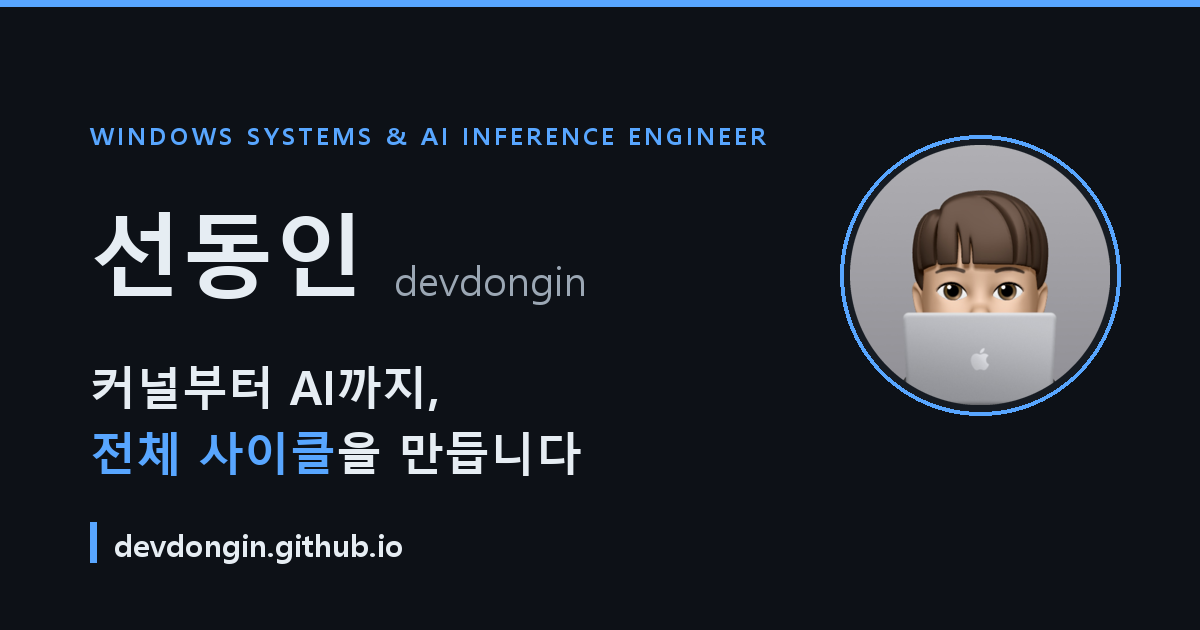
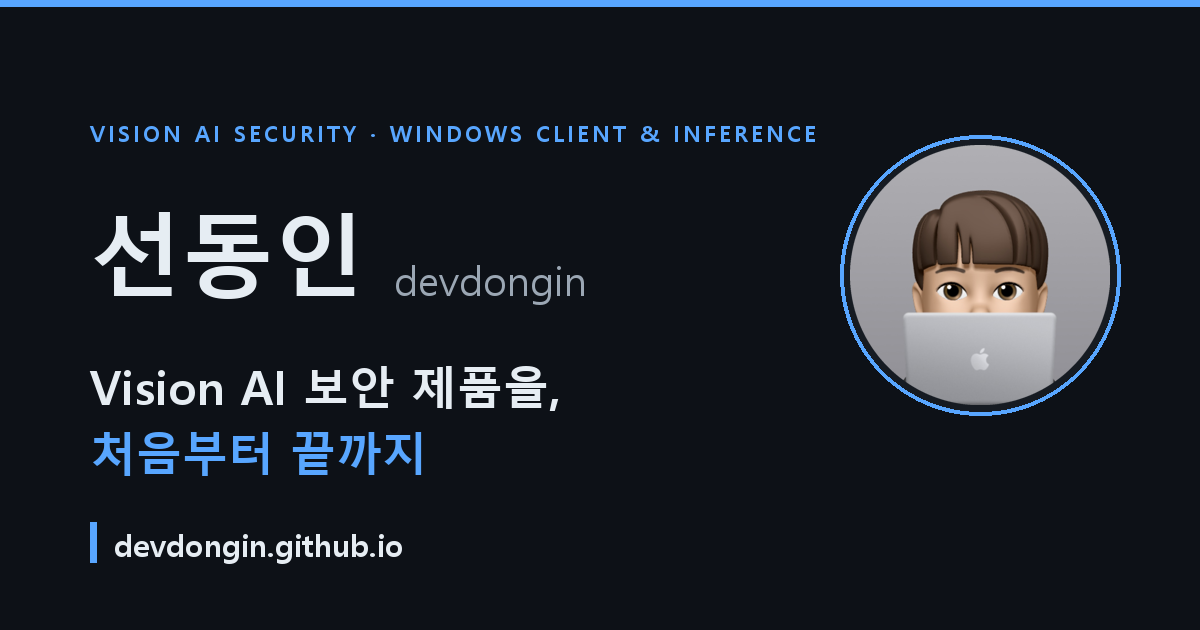
v2: reposition around Vision AI product-ization, add virtual tech interview
Positioning (per CTO-mode interview with Codex): the lead narrative is no
longer 'kernel developer' but 'engineer who took a Vision AI security
product from lab model to customer operations'. Kernel/CP/hooking/deploy
are reframed as differentiators that protect and operate that product.

- hero: new h1/eyebrow/tagline + regenerated OG card + meta descriptions
- AI review: rewritten around depth-where-it-mattered, with the 150ms->45ms
  and dump/WinDbg conflict-resolution evidence up front
- skills: importance-scaled cards — new CORE lead card (spans 2 cols) for
  the full product cycle, new 운영 장애 대응 card, kernel card enriched
- SEEUON promoted to featured project card (대표 제품 badge, larger type)
  with a deep-dive on keeping the product alive in customer environments
- CULockerFsfd deep-dive: ClouDoc(policy-based, compatibility-hard) vs
  CULockerFsfd(whitelist self-protection, bypass-hard) contrast, zero
  trust between own processes, update window handling, IOCTL digest design
- CUFaceSDK deep-dive: app-owns-memory design, init/finalize + per-language
  ctor/dtor, model caching & partial load/unload, wrapper UX validated
- new #interview section: 5 CTO Q&As with '지금이라면' improvement notes;
  implementation values that could aid bypass are deliberately omitted
- section background alternation rebalanced; nav + footer v2 marker
- weekly AI-review prompt and CLAUDE.md pinned to the v2 positioning

Changed region(s): [[0.0617, 0.573, 0.4933, 0.754], [0.0617, 0.181, 0.6783, 0.2413]]

diff --git a/index.html b/index.html
@@ -5,16 +5,16 @@
 <script>document.documentElement.classList.add('js')</script>
 <meta name="viewport" content="width=device-width, initial-scale=1.0">
 <title>선동인 | Windows Systems &amp; AI Inference Engineer</title>
-<meta name="description" content="Windows 커널 드라이버, AI 추론 SDK, 보안 솔루션 개발자 선동인의 포트폴리오">
+<meta name="description" content="Vision AI 영상보안 솔루션을 AI 추론 SDK·Windows 클라이언트·커널 보호·배포·운영까지 제품화해온 시스템 소프트웨어 엔지니어 선동인의 포트폴리오">
 <meta name="google-site-verification" content="8krlzHDtJ5GVQ8Z6HOvz6EHLX4pDK0UsEzQ-aY-irrE">
 <meta property="og:type" content="website">
 <meta property="og:title" content="선동인 | Windows Systems &amp; AI Inference Engineer">
-<meta property="og:description" content="커널 드라이버부터 AI 추론 SDK, 배포까지 — Windows 보안 솔루션의 전체 사이클을 다루는 개발자">
+<meta property="og:description" content="Vision AI 영상보안 솔루션 SEEUON을 AI 추론 SDK·Windows 클라이언트·미들웨어·배포·운영 대응까지 제품화해온 엔지니어">
 <meta property="og:url" content="https://devdongin.github.io">
 <meta property="og:image" content="https://devdongin.github.io/og-card.png">
 <meta property="og:image:width" content="1200">
 <meta property="og:image:height" content="630">
-<meta property="og:image:alt" content="선동인 — 커널부터 AI까지, 전체 사이클을 만듭니다 · devdongin.github.io">
+<meta property="og:image:alt" content="선동인 — Vision AI 보안 제품을, 처음부터 끝까지 · devdongin.github.io">
 <meta name="twitter:card" content="summary_large_image">
 <link rel="canonical" href="https://devdongin.github.io/">
 <script type="application/ld+json">
@@ -285,6 +285,63 @@
     grid-template-columns: repeat(auto-fit, minmax(260px, 1fr));
     margin-bottom: 18px;
   }
+  /* v2: 중요도에 따른 카드 크기 — 대표 역량은 넓게 */
+  .skill-card--lead {
+    background: linear-gradient(160deg, var(--bg-card-hover), var(--bg-card) 60%);
+    border-color: rgba(88,166,255,0.35);
+  }
+  .skill-card--lead .icon { font-size: 30px; }
+  .skill-card--lead h3 { font-size: 19px; }
+  .skill-card--lead p { font-size: 15px; line-height: 1.7; }
+  .skill-card--lead .lead-tag {
+    display: inline-block; font-size: 11px; font-weight: 700;
+    letter-spacing: 0.08em; color: var(--accent);
+    background: var(--accent-dim); padding: 2px 8px; border-radius: 999px;
+    margin-bottom: 10px;
+  }
+  @media (min-width: 721px) { .skill-card--lead { grid-column: span 2; } }
+  /* v2: 대표 제품 카드 강조 */
+  .project--featured {
+    padding: 38px;
+    border-color: rgba(88,166,255,0.4);
+    box-shadow: 0 0 0 1px rgba(88,166,255,0.08), 0 24px 64px rgba(0,0,0,0.35);
+  }
+  .project--featured h3 { font-size: 24px; }
+  .project--featured .desc { font-size: 16px; color: var(--text); }
+  .badge.lead { background: var(--accent); color: var(--on-accent); }
+  /* v2: 가상 면접 Q&A */
+  .qa {
+    background: var(--bg-card); border: 1px solid var(--border);
+    border-radius: 12px; margin-bottom: 12px; overflow: hidden;
+    transition: border-color .2s ease;
+  }
+  .qa:hover { border-color: var(--border-hover); }
+  .qa[open] { border-color: rgba(88,166,255,0.35); }
+  .qa summary {
+    display: flex; gap: 14px; align-items: flex-start;
+    padding: 18px 22px; cursor: pointer;
+    font-size: 15px; font-weight: 600; line-height: 1.6;
+    list-style: none;
+  }
+  .qa summary::-webkit-details-marker { display: none; }
+  .qa summary:hover { background: var(--bg-card-hover); }
+  .qa[open] summary { border-bottom: 1px solid var(--border); }
+  .qa-badge {
+    flex: none; width: 24px; height: 24px; border-radius: 7px;
+    background: var(--accent-dim); color: var(--accent);
+    font-size: 12px; font-weight: 800;
+    display: grid; place-items: center; margin-top: 1px;
+  }
+  .qa-body { padding: 20px 22px 24px; font-size: 14.5px; color: var(--text-dim); line-height: 1.85; }
+  .qa-body p + p { margin-top: 14px; }
+  .qa-body strong { color: var(--text); font-weight: 600; }
+  .qa-note {
+    margin-top: 16px; padding: 12px 16px;
+    border-left: 2px solid var(--accent); background: var(--accent-dim);
+    border-radius: 0 8px 8px 0; font-size: 13.5px; line-height: 1.7;
+  }
+  .qa-note b { color: var(--accent); font-weight: 700; }
+  .interview-note { text-align: center; font-size: 13px; color: var(--text-dim); margin-top: 22px; opacity: 0.85; }
   .chips { display: flex; flex-wrap: wrap; gap: 8px; }
   .chip {
     font-size: 13px; font-weight: 500;
@@ -517,6 +574,7 @@
       <a href="#skills">역량</a>
       <a href="#projects">프로젝트</a>
       <a href="#activity">활동</a>
+      <a href="#interview">면접</a>
       <a href="#career">경력</a>
       <a href="gallery.html">갤러리</a>
       <a href="#contact">연락</a>
@@ -529,19 +587,20 @@
 <section class="hero" id="top">
   <div class="container hero-inner">
     <div class="hero-text">
-      <span class="eyebrow">Windows Systems &amp; AI Inference Engineer</span>
-      <h1>커널부터 AI까지,<br><span class="accent">전체 사이클</span>을 만듭니다</h1>
+      <span class="eyebrow">Vision AI Security · Windows Client &amp; Inference Engineer</span>
+      <h1>Vision AI 보안 제품을,<br><span class="accent">처음부터 끝까지</span></h1>
       <p class="tagline">
         안녕하세요, <strong>선동인</strong>입니다.<br>
-        Windows 커널 드라이버·보안 클라이언트·AI 추론 SDK를
-        <strong>상용 제품으로 만들어 온</strong> 시스템 소프트웨어 엔지니어입니다.
+        Vision AI 영상보안 솔루션 <strong>SEEUON</strong>의 AI 추론 SDK·Windows 클라이언트·미들웨어·배포,
+        그리고 <strong>고객사 운영 장애 대응</strong>까지 — 제품 전체 사이클을 다뤄온 시스템 소프트웨어 엔지니어입니다.
       </p>
       <div class="ai-review-box" id="ai-review">
         <span class="ai-tag">AI REVIEW</span>
         <!-- AI-REVIEW:START -->
-        <p><strong>커널 드라이버 단독 개발(사내 커밋 100%)부터 Windows 로그인 Credential Provider(기여 76%), OpenVINO 추론 SDK(기여 2위·325커밋)까지 — 주장 전부가 저장소 데이터로 증명되는 풀사이클 시스템 엔지니어.</strong>
-        최근 12개월 커밋 886건은 두 계정의 전 저장소·전 브랜치 집계이며, 핵심 클라이언트 저장소에서는 전체 커밋의 81%를 차지하는 1위 기여자다. 고객사 확장기였던 3~5월에 월 121~143커밋으로 정점을 기록했고, 6월 소강기를 지나 7월 들어 활동이 다시 회복되는 추세. 최근에는 AI 코딩 하네스(Claude Code)를 실무에 도입해 SEEUON macOS 버전 구축과 이 포트폴리오의 자동 갱신 파이프라인까지 같은 흐름에서 운영하고 있다.
-        <span class="ai-meta">이 평가는 AI(Claude)가 선동인의 경력·저장소 기여 데이터를 근거로 자동 생성·갱신합니다 · 갱신 2026-07-30 18:35 KST</span></p>
+        <p><strong>Vision AI 영상보안 제품을 연구실 모델에서 고객사 운영 환경까지 끌고 간 엔지니어.</strong>
+        추론 SDK 설계(기여 2위·325커밋), 솔루션 자기보호 커널 드라이버 단독 개발(커밋 100%), Windows 로그인 얼굴인증 Credential Provider(기여 76%)가 한 제품의 서로 다른 층위로 이어진다. 강점은 범위가 아니라 <strong>깊이가 필요한 지점에서 실제로 내려간 기록</strong>이다 — 추론 파이프라인 스레드 재설계로 프레임당 150ms를 40~50ms로 줄였고, 백신·EDR 충돌은 풀 덤프와 WinDbg로 원인 경로까지 규명해 고객사·벤더 화이트리스트 협의로 마무리했다.
+        최근 12개월 커밋 886건(두 계정 전 저장소·전 브랜치 집계)에서 핵심 클라이언트 저장소 기여율 81%로 1위. 고객사 확장기였던 3~5월 월 121~143커밋으로 정점을 찍었고, 최근에는 AI 코딩 하네스를 실무에 들여 macOS 버전 구축과 이 페이지의 자동 갱신 파이프라인을 함께 운영 중이다.
+        <span class="ai-meta">이 평가는 AI(Claude)가 선동인의 경력·저장소 기여 데이터를 근거로 자동 생성·갱신합니다 · 갱신 2026-07-30 21:10 KST</span></p>
         <!-- AI-REVIEW:END -->
       </div>
       <div class="hero-actions">
@@ -581,6 +640,17 @@
       <p>어떻게 일하고, 무엇을 만들 수 있는가 — 증명 가능한 것만 적었습니다</p>
     </div>
     <div class="skills strengths">
+      <div class="skill-card skill-card--lead reveal">
+        <span class="lead-tag">CORE</span>
+        <div class="icon">🎯</div>
+        <h3>제품 전체 사이클 — 연구실 모델에서 고객사 운영까지</h3>
+        <p>Vision AI 영상보안 솔루션 SEEUON을 POC 데모부터 추론 SDK, 판별 미들웨어, Windows 클라이언트, 설치·배포, 그리고 고객사 운영 장애 대응까지 끌고 왔습니다. 훈련된 모델을 <strong>실제 고객 환경에서 도는 제품</strong>으로 옮기는 것이 제 일의 정의입니다</p>
+      </div>
+      <div class="skill-card reveal">
+        <div class="icon">🚨</div>
+        <h3>운영 장애 대응 &amp; 고객사 협의</h3>
+        <p>백신·EDR 충돌, OS 업데이트, 정책 공백처럼 배포 후에야 드러나는 문제를 재현·분석·조정합니다. 풀 덤프와 WinDbg로 원인 경로를 규명하고, 벤더·고객사 보안 담당자와 화이트리스트를 협의해 제품 안정성으로 연결했습니다</p>
+      </div>
       <div class="skill-card reveal">
         <div class="icon">🧭</div>
         <h3>사용자 관점의 설계</h3>
@@ -591,17 +661,12 @@
         <h3>커뮤니케이션 &amp; 협업</h3>
         <p>고객사 실무자, 영업, AI 리서처 사이에서 기술 언어를 통역합니다. POC 현장에서 요구사항을 직접 듣고 스펙으로 옮기며, 첫 회사에서부터 부팀장을 맡았습니다</p>
       </div>
-      <div class="skill-card reveal">
-        <div class="icon">📈</div>
-        <h3>AI 상용화 경험</h3>
-        <p>연구실의 모델을 매출 내는 제품으로 옮깁니다. 훈련된 모델을 C/C++ 추론 SDK로 포팅하고 미들웨어·애플리케이션·배포까지 상용 수준으로 완성했습니다</p>
-      </div>
     </div>
     <div class="skills">
       <div class="skill-card reveal">
         <div class="icon">🔧</div>
-        <h3>커널 드라이버 개발</h3>
-        <p>FileSystem Minifilter Driver 단독 설계·개발. Microsoft filter altitude 정식 할당 (CULockerFsfd.sys)</p>
+        <h3>커널 드라이버 &amp; 자기보호</h3>
+        <p>FileSystem Minifilter 단독 설계·개발. 화이트리스트 기반 솔루션 자기보호, 관리자·SYSTEM 권한 우회까지 커널에서 차단, IOCTL 기반 커널-유저모드 통신 설계. Microsoft filter altitude 정식 할당</p>
       </div>
       <div class="skill-card reveal">
         <div class="icon">🤖</div>
@@ -661,13 +726,14 @@
       <p>POC 데모부터 커널 드라이버까지, 한 솔루션의 전체 여정</p>
     </div>
 
-    <div class="project reveal">
+    <div class="project project--featured reveal">
       <div class="project-head">
         <h3>SEEUON / SEEUONIdp</h3>
         <span class="meta">2023.07 – 현재 · (주)시선에이아이</span>
       </div>
-      <p class="desc">Vision AI 기반 단말 보안 솔루션 — 화면 촬영 감지, 안면인식 본인인증, 얼굴 위변조 탐지. POC 데모부터 SDK, 미들웨어, 애플리케이션, 커널 드라이버까지 전체 사이클 참여</p>
+      <p class="desc">Vision AI 기반 단말 보안 솔루션 — 화면 촬영 감지, 안면인식 본인인증, 얼굴 위변조 탐지. POC 데모부터 추론 SDK·미들웨어·클라이언트·배포, 그리고 고객사 운영 장애 대응까지 제품 전체 사이클을 담당했습니다</p>
       <div class="badges">
+        <span class="badge lead">대표 제품</span>
         <span class="badge">C / C++</span>
         <span class="badge">OpenVINO</span>
         <span class="badge">Kernel Driver</span>
@@ -685,6 +751,15 @@
         <li><strong>배포 총괄</strong> — Python, NSIS, Themida, 인증서 서명 기반 전체 릴리스 파이프라인 담당</li>
         <li><strong>장애 분석</strong> — WinDbg 크래시 덤프 사후 분석으로 프로세스 비정상 종료, 보안 프로그램 간 충돌 원인 규명·해결</li>
       </ul>
+      <details class="deep-dive">
+        <summary>기술 딥다이브 — 제품을 고객 환경에서 살려두는 일</summary>
+        <ul>
+          <li><strong>문제</strong> — Vision AI 보안 클라이언트는 만드는 것보다 <strong>남의 PC에서 계속 도는 것</strong>이 어렵다. 백신·EDR과 같은 시스템 영역을 놓고 부딪히고, OS 업데이트마다 전제가 바뀌며, 솔루션 자신이 우회·종료의 표적이 된다</li>
+          <li><strong>구현</strong> — 추론 SDK(공통 엔진) → 판별 미들웨어 → 클라이언트 앱으로 층을 나눠 모델 교체가 상위 레이어를 흔들지 않게 했고, 솔루션 자기보호는 커널(Minifilter)로, 로그인 경로 인증은 Credential Provider로 각각 내려서 해결</li>
+          <li><strong>난점 → 해결</strong> — DLL 인젝션·API 후킹·파일시스템 필터링은 타 보안 제품과 충돌이 잦은 영역. 재현 가능한 케이스는 풀 덤프를 남기도록 설정하고 충돌 시점에 각 프로세스·드라이버가 타는 API/I/O 경로를 WinDbg로 분석 — 자사 원인이면 예외 처리·기능 수정, 상호 충돌이면 벤더·고객사 보안 담당자와 화이트리스트를 협의하고, 불가피한 조합은 한쪽 기능을 끄는 운영 정책으로 정리</li>
+          <li><strong>결과</strong> — SI 프로젝트로 시작한 솔루션이 회사 핵심 제품이 되었고, 삼성 계열·공공·금융 등 다수 고객사 환경에 구축·운영</li>
+        </ul>
+      </details>
       <div class="highlight-box">
         <p>✦ SI 사업으로 시작해 회사 <strong>핵심 솔루션</strong>으로 성장 주도</p>
         <p>✦ 2024년 회사 매출 100억 중 <strong>40–50% 담당</strong> 프로젝트로 성장</p>
@@ -720,9 +795,11 @@
       <details class="deep-dive">
         <summary>기술 딥다이브 — 문제와 해결</summary>
         <ul>
-          <li><strong>문제</strong> — 보안 솔루션은 그 자체가 우회 대상이 된다: 프로세스 강제 종료, 디버거 부착, 로컬 파일 변조로 정책을 무력화할 수 있음</li>
-          <li><strong>구현</strong> — FileSystem Minifilter로 보호 대상 프로세스·파일/폴더에 대한 I/O를 커널단에서 통제하고 Anti-Debugging을 결합</li>
-          <li><strong>난점 → 해결</strong> — 타 보안 솔루션과의 충돌·프로세스 비정상 종료를 WinDbg 크래시 덤프 분석으로 원인 경로부터 규명해 해결</li>
+          <li><strong>문제</strong> — 보안 솔루션은 그 자체가 우회 대상이 된다: 프로세스 강제 종료, 디버거 부착, 바이너리 교체로 정책을 무력화할 수 있음. 유저모드 방어만으로는 관리자 권한 앞에서 무의미하다</li>
+          <li><strong>설계 축이 이전 경험과 정반대였던 점</strong> — 엠클라우독의 파일시스템 드라이버는 <strong>사용자 파일시스템 전체를 관장하는 정책 기반 접근 제어</strong>였고, 난이도는 호환성에 있었다(OS 업데이트·신규 프로그램 출시마다 연쇄 파일 I/O와 fallback 미지원 프로그램 대응). CULockerFsfd는 반대로 <strong>솔루션 자기보호를 위한 화이트리스트</strong>가 목적이라, 정책 복잡도보다 차단 강도와 우회 봉쇄가 핵심이었다</li>
+          <li><strong>구현</strong> — 화이트리스트에 없는 접근은 정책 검사 없이 차단. 솔루션 내부 프로세스 사이에도 zero trust를 적용하고, <strong>관리자·SYSTEM 권한 프로세스라도 정책 밖이면 커널 레벨에서 거부</strong>. 신뢰 판별은 경로 → 바이너리 해시 → 디지털 서명 순으로 확인. Anti-Debugging을 함께 결합</li>
+          <li><strong>난점 → 해결</strong> — 강한 차단은 정상 운영을 깨뜨린다. 업데이트는 사용자 세션 중이 아니라 로그인 화면 단계에서 준비해 보호 정책을 제어하고, 단계별 롤백 함수로 실패를 복구하며, 업데이트 직후 버전 기준 바이너리·프로세스 무결성을 재검사. 보호가 완화된 구간의 인젝션 위험은 프로세스 로드 시 DLL 목록을 확인한 뒤 정책을 복구하고 reload하는 방식으로 좁혔다</li>
+          <li><strong>커널-유저모드 통신</strong> — IOCTL 기반. CRC류는 위변조에 취약해 배제하고, 드라이버와 제한된 유저모드 앱 사이에 공유 키와 salt를 둔 SHA-256 digest로 요청을 검증했다(암호화가 아니라 위변조·임의 프로세스 호출 차단이 목적). IOCTL은 파일 I/O처럼 빈번한 경로가 아니어서 검증 비용을 더 쓸 수 있다고 판단</li>
           <li><strong>결과</strong> — Microsoft filter altitude 정식 할당과 attestation 서명 배포 체계 구축, 커밋 100% 단독 개발로 고객사 운영 환경에 배포</li>
         </ul>
       </details>
@@ -750,6 +827,8 @@
         <ul>
           <li><strong>문제</strong> — 연구실에서 훈련된 모델은 그대로는 상용 제품에서 쓸 수 없다: C++ 제품군에 맞는 추론 계층이 필요</li>
           <li><strong>구현</strong> — OpenVINO 기반 C/C++ 추론 엔진을 설계하고, C/C++/C#/Python 바인딩과 Windows·Ubuntu 크로스 플랫폼 빌드 제공</li>
+          <li><strong>SDK 설계 원칙</strong> — 코어는 기능만 제공하고 <strong>메모리 소유권은 애플리케이션이 갖는 구조</strong>로 두었다. 리소스 생명주기는 명시적 init/finalize에 더해 언어별 생성자·소멸자 패턴까지 고려해 정리. 모델은 최초 로딩 시 캐시를 만들고 이후에는 필요한 모델만 부분 load/unload</li>
+          <li><strong>쓰는 사람 기준으로 검증</strong> — C#·Python Wrapper는 혼자 상상해서 내지 않고, 실제 그 언어를 쓰는 개발자들에게 사용성을 물어 API 형태를 조정했다</li>
           <li><strong>난점 → 해결</strong> — 실시간 영상에 추론을 얹으면 프레임당 150ms가 소요돼 실사용이 어려웠음. SDK와 판별 미들웨어(FaceOnDiscriminator)의 스레드 구조와 처리 경로를 재설계해 병목 제거</li>
           <li><strong>결과</strong> — <strong>프레임당 150ms → 40~50ms(약 3배 개선)</strong>로 실시간 처리 수준 확보. SEEUON 제품군의 공통 기반 SDK로 채택되어 Edge Device 보드 최적화 버전까지 확장</li>
         </ul>
@@ -795,7 +874,65 @@
   </div>
 </section>
 
-<section id="activity">
+<section id="interview">
+  <div class="container">
+    <div class="section-head reveal">
+      <p class="kicker">Deep Dive</p>
+      <h2>가상 기술 면접</h2>
+      <p>AI(Codex)가 CTO 관점에서 파고든 질문과, 제가 실제로 내린 판단들</p>
+    </div>
+
+    <details class="qa reveal">
+      <summary><span class="qa-badge">Q</span>커널 드라이버를 두 회사에서 다 하셨는데, 목적이 어떻게 달랐나요?</summary>
+      <div class="qa-body">
+        <p>같은 FileSystem Minifilter지만 <strong>설계 축이 정반대</strong>였습니다.</p>
+        <p>엠클라우독의 드라이버는 <strong>사용자 파일시스템 전체를 관장하는 정책 기반 접근 제어</strong>가 목적이었습니다. 제품 자체가 프로세스 기준으로 동작했고, 정책 파일이 커널 메모리에 상주하면서 "이 프로세스가 이 경로에 권한이 있는가"를 판단했죠. 여기서 어려운 건 차단이 아니라 <strong>호환성</strong>이었습니다. OS 업데이트나 신규 프로그램이 나올 때마다 연달아 일어나는 파일 I/O를 감당해야 했고, 프로그램 쪽에서 fallback 처리를 하지 않아 정책을 새로 적용하는 도중 문제가 되는 경우도 많았습니다.</p>
+        <p>시선에이아이의 CULockerFsfd는 <strong>솔루션 자기보호를 위한 화이트리스트</strong>가 목적입니다. 정책 복잡도보다 차단 강도와 우회 봉쇄가 핵심이라, 화이트리스트에 없으면 별도 판단 없이 거부하면 됩니다. 대신 상당히 강하게 걸었습니다 — 솔루션 내부 프로세스 사이에도 zero trust를 적용했고, 관리자나 SYSTEM 권한 프로세스라도 정책에 맞지 않으면 커널 레벨에서 접근을 막았습니다.</p>
+      </div>
+    </details>
+
+    <details class="qa reveal">
+      <summary><span class="qa-badge">Q</span>강한 deny 정책을 유지하면서, 업데이트·설치·백신 스캔·장애 분석 같은 정상 운영 경로는 어떻게 열어줬나요?</summary>
+      <div class="qa-body">
+        <p>화이트리스트가 강할수록 운영이 깨지기 쉽다는 게 실제로 가장 큰 숙제였습니다.</p>
+        <p><strong>업데이트</strong>는 사용자 세션이 열려 있는 동안 수행하지 않고, Windows 로그인 화면 단계부터 준비해 보호 정책을 제어하는 방식으로 설계했습니다. 업데이트 도중에는 단계별 롤백 함수를 두어 실패 시 복구할 수 있게 했고, 완료 직후에는 버전 기준으로 바이너리·프로세스 무결성을 다시 검사했습니다. 보호가 완화된 구간에 인젝션이 들어올 위험은, 프로세스가 로드될 때 함께 올라온 DLL 목록을 확인하고 정책을 복구한 뒤 reload하는 방식으로 창을 좁혔습니다.</p>
+        <p><strong>백신·EDR</strong>은 원칙적으로 차단하되, OS가 스스로 보호하는 Windows Defender 컴포넌트는 허용했습니다. 그 외 제품은 고객사 환경과 정책에 따라 예외 등록이나 운영 협의로 풀었습니다. <strong>장애 분석</strong>은 모니터링 서비스를 따로 두고, 덤프는 레지스트리 설정으로 수집해 서버로 자동 전송되게 했습니다.</p>
+        <div class="qa-note"><b>지금이라면</b> — 보호를 전체 완화하는 대신, 업데이트에 필요한 파일·프로세스·시간 범위만 여는 maintenance mode로 좁히겠습니다. 완화 구간 자체가 가장 매력적인 공격 타이밍이니까요.</div>
+      </div>
+    </details>
+
+    <details class="qa reveal">
+      <summary><span class="qa-badge">Q</span>커널과 유저모드 프로그램 사이의 요청은 무엇으로 신뢰했나요?</summary>
+      <div class="qa-body">
+        <p>IOCTL로 주고받았고, 검증에는 <strong>공유 키와 salt를 포함한 SHA-256 digest</strong>를 사용했습니다. CRC 같은 방식은 위변조에 취약하다고 판단해 배제했고, IOCTL은 파일 I/O처럼 초당 수천 번 들어오는 경로가 아니어서 검증에 연산을 더 써도 부담이 적다고 봤습니다. 목적은 암호화가 아니라 <strong>요청 위변조와 임의 프로세스의 호출을 걸러내는 것</strong>이고, 커널과 통신하는 앱 자체를 소수로 한정했습니다.</p>
+        <p>바이너리 쪽은 패킹·난독화와 경로 화이트리스트를 함께 걸어, 키가 든 실행 파일을 복사하거나 교체해서 분석하는 비용을 올렸습니다. 신뢰 판별도 경로만 보지 않고 해시와 디지털 서명까지 확인했습니다.</p>
+        <div class="qa-note"><b>지금이라면</b> — 바이너리에 포함된 키는 장기적으로 완전한 보안 경계로 보기 어렵습니다. 난독화는 분석 비용을 올릴 뿐 불가능하게 만들지는 못하니까요. per-install key, nonce/timestamp 기반 replay 방지, 짧은 유효시간의 maintenance token, 그리고 커널 측에서 요청자를 한 번 더 검증하는 구조를 얹겠습니다. fake app 식별용으로 쓰던 빠른 해시도 SHA-256으로 통일하는 게 맞습니다.</div>
+      </div>
+    </details>
+
+    <details class="qa reveal">
+      <summary><span class="qa-badge">Q</span>다른 보안 솔루션과의 충돌은 어떻게 다뤘나요?</summary>
+      <div class="qa-body">
+        <p>충돌은 예외가 아니라 <strong>상수</strong>였습니다. 특히 DLL 인젝션, API 후킹, 파일시스템 필터링처럼 타 EDR·백신과 같은 시스템 영역을 쓰는 기능에서 부딪힐 가능성이 컸습니다.</p>
+        <p>재현 가능한 시나리오는 풀 덤프를 남기도록 설정하고, 충돌 시점에 각 프로세스와 드라이버가 어떤 API·I/O 경로를 타는지 WinDbg로 분석했습니다. 원인이 자사 기능이면 예외 처리나 기능 수정으로 대응했고, 서로의 동작이 맞물려 생기는 문제면 고객사 보안 담당자나 해당 솔루션 벤더와 협의해 화이트리스트 등록을 진행했습니다. 인터넷망 연결이 가능한 환경이면 벤더 쪽에, 온프레미스면 고객사 담당자를 통해 예외 정책을 잡는 식이었습니다.</p>
+        <p>기능적으로 충돌이 불가피한 조합은 상호 보완적으로 한쪽 기능을 끄는 <strong>운영 정책</strong>으로 정리했습니다. 기술로 다 풀리지 않는 영역은 합의로 푸는 게 결국 제품을 살리는 길이었습니다.</p>
+      </div>
+    </details>
+
+    <details class="qa reveal">
+      <summary><span class="qa-badge">Q</span>C++ 코어 SDK를 C#·Python에 바인딩할 때 메모리 소유권과 생명주기는 어떻게 설계했나요?</summary>
+      <div class="qa-body">
+        <p>코어 SDK는 <strong>기능만 제공</strong>하고 상태와 리소스를 무겁게 들고 있지 않도록 했습니다. 메모리 소유권은 애플리케이션에 두고, 생명주기는 명시적인 init/finalize로 열고 닫게 했습니다. 여기에 언어별 생성자·소멸자 패턴이 있으면 그것도 함께 적용해서, 어느 쪽 습관으로 써도 리소스가 새지 않도록 했습니다.</p>
+        <p>모델은 최초 로딩 시 필요한 캐시 파일을 만들고, 이후에는 <strong>필요한 모델만 부분 load/unload</strong>할 수 있게 구성했습니다. 여러 모델을 항상 메모리에 올려둘 필요가 없는 제품 특성을 반영한 선택이었습니다.</p>
+        <p>C#·Python Wrapper는 제가 상상해서 만들지 않고, 실제 그 언어를 쓰는 개발자들에게 써보게 하면서 API 형태를 조정했습니다. SDK는 결국 쓰는 사람이 편해야 채택된다고 생각합니다.</p>
+      </div>
+    </details>
+
+    <p class="interview-note">위 답변은 실제 기술 면접 시뮬레이션에서 나온 것으로, 제품 보안에 영향을 줄 수 있는 구체적 구현 값은 의도적으로 제외했습니다.</p>
+  </div>
+</section>
+
+<section id="activity" class="alt">
   <div class="container">
     <div class="section-head reveal">
       <p class="kicker">Activity</p>
@@ -820,7 +957,7 @@
   </div>
 </section>
 
-<section id="career" class="alt">
+<section id="career">
   <div class="container">
     <div class="section-head reveal">
       <p class="kicker">Career &amp; Education</p>
@@ -876,7 +1013,7 @@
   </div>
 </section>
 
-<section id="blog">
+<section id="blog" class="alt">
   <div class="container">
     <div class="section-head reveal">
       <p class="kicker">Blog &amp; Links</p>
@@ -894,7 +1031,7 @@
   </div>
 </section>
 
-<section class="contact alt" id="contact">
+<section class="contact" id="contact">
   <div class="container reveal">
     <div class="section-head section-head--tight">
       <p class="kicker">Contact</p>
@@ -913,7 +1050,7 @@
 
 <footer>
   <div class="container">
-    <p>© 2026 선동인 (devdongin) · Built with plain HTML — hosted on GitHub Pages</p>
+    <p>© 2026 선동인 (devdongin) · <strong>v2</strong> · Built with plain HTML — hosted on GitHub Pages</p>
     <p class="visits" hidden>👀 Today <span id="v-today">–</span> · Total <span id="v-total">–</span> <span class="visits-note">· 제3자 무가입 집계(Abacus), 재미로만 봐주세요</span></p>
   </div>
 </footer>

diff --git a/scripts/gen_og_card.py b/scripts/gen_og_card.py
@@ -35,8 +35,8 @@ def main():
     y = 118
 
     # eyebrow
-    eyebrow = "WINDOWS SYSTEMS & AI INFERENCE ENGINEER"
-    f_eye = font("malgunbd.ttf", 24)
+    eyebrow = "VISION AI SECURITY · WINDOWS CLIENT & INFERENCE"
+    f_eye = font("malgunbd.ttf", 22)
     # 자간 벌리기
     x = margin
     for ch in eyebrow:
@@ -54,12 +54,9 @@ def main():
 
     # 헤드라인 두 줄 (전체 사이클 강조) — 아바타 영역(x>780)을 침범하지 않는다
     f_head = font("malgunbd.ttf", 46)
-    d.text((margin, y), "커널부터 AI까지,", font=f_head, fill=TEXT)
+    d.text((margin, y), "Vision AI 보안 제품을,", font=f_head, fill=TEXT)
     y += 66
-    x = margin
-    for text, color in [("전체 사이클", ACCENT), ("을 만듭니다", TEXT)]:
-        d.text((x, y), text, font=f_head, fill=color)
-        x += d.textlength(text, font=f_head)
+    d.text((margin, y), "처음부터 끝까지", font=f_head, fill=ACCENT)
 
     # 하단 URL
     f_url = font("malgunbd.ttf", 30)

diff --git a/CLAUDE.md b/CLAUDE.md
@@ -16,6 +16,14 @@
 4. 공개 범위 (2026-07-30 사용자 승인): POC 고객사 실명, 스크린 캡처 방지 기법명(API 후킹·DLL 인젝션), 커밋 기여 통계, 매출 기여 수치는 게시 허용.
 5. 이력서/사실에 없는 수치·경력을 창작하지 말 것.
 
+## 포지셔닝 (v2, 2026-07-30)
+
+대표 서사는 **"Vision AI 영상보안 솔루션 SEEUON을 연구실 모델에서 고객사 운영 환경까지 제품화한 엔지니어"**다. 커널 드라이버·Credential Provider·후킹/인젝션·배포 파이프라인은 *그 제품을 보호하고 운영하기 위해 확장한 차별점*으로 배치한다 — "커널도 하는 사람"이 아니라 "제품을 고객 환경에서 살려본 사람"으로 읽혀야 한다. 이 축을 바꾸지 말 것 (주간 AI REVIEW 프롬프트에도 동일 지시 포함).
+
+서술 방식은 나열이 아니라 **왜 필요했는지 → 어떻게 설계했는지 → 어떤 운영 문제가 있었는지 → 어떻게 대응했는지**. 프로젝트 카드의 `.deep-dive`와 `#interview` 섹션이 그 역할을 한다.
+
+`#interview`(가상 기술 면접)는 CTO 관점 질문에 대한 실제 답변을 정리한 섹션이다. **제품 보안에 영향을 줄 수 있는 구체적 구현 값(정확한 알고리즘 선택, 키 저장 위치, 우회 타이밍 등)은 의도적으로 제외**하고 설계 판단과 트레이드오프 수준으로만 서술한다. 답변마다 `.qa-note`로 "지금이라면 이렇게 개선" 을 붙이는 것이 시니어 시그널이므로 유지한다.
+
 ## 디자인 시스템
 
 - 색상은 반드시 `:root` CSS 변수만 사용 (`--accent`, `--green-dim`, `--on-accent` 등). 리터럴 색상 하드코딩 금지.
